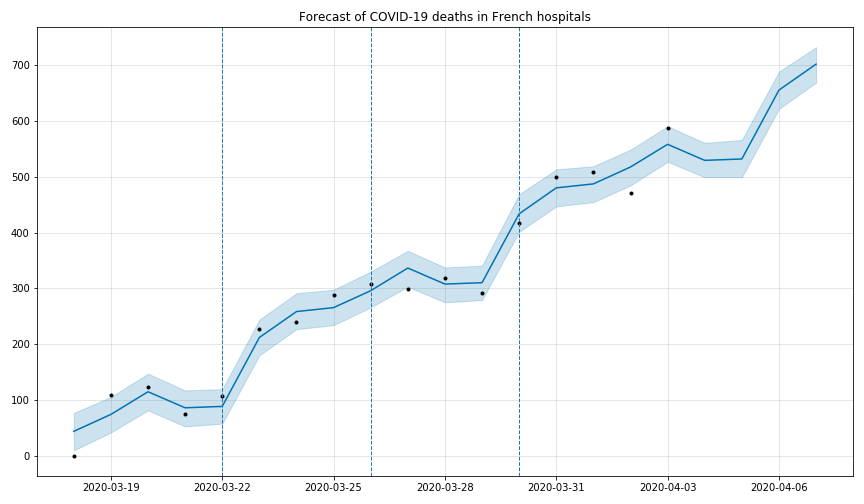
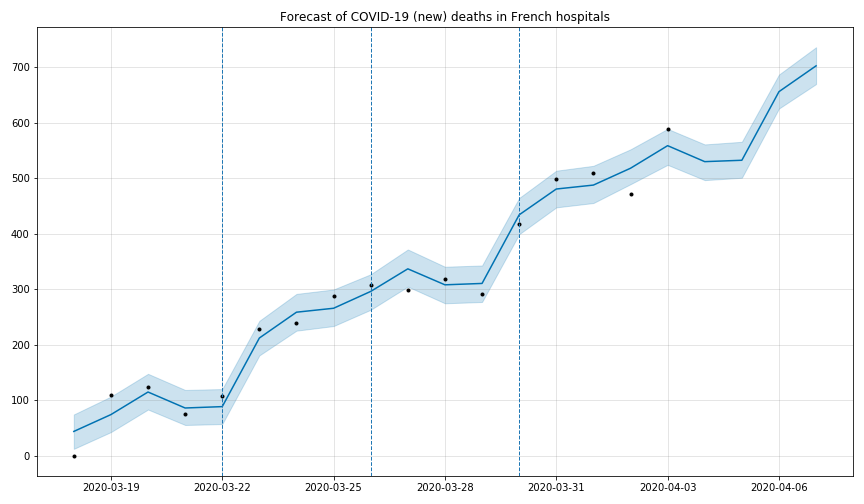
readme

diff --git a/README.md b/README.md
@@ -1,4 +1,4 @@
-# Forecast of COVID-19 deaths and hospitalizations in France (last update: 02/04/2020)
+# Forecast of COVID-19 deaths and hospitalizations in France (last update: 03/04/2020)
 
 Visualize a forecast of the evolution of the COVID-19 hospitalizations in a given French department + forecast of the total number of deaths
 
@@ -18,7 +18,7 @@ Example: forecast of the number of COVID-19 hospitalizations in a French departm
 ![dep](31_forecast.png)
 
 
-Example: forecast of the total number of deaths in France
+Example: forecast of the total number of (new) deaths in France
 
 ![death](death_forecast.png)
 
